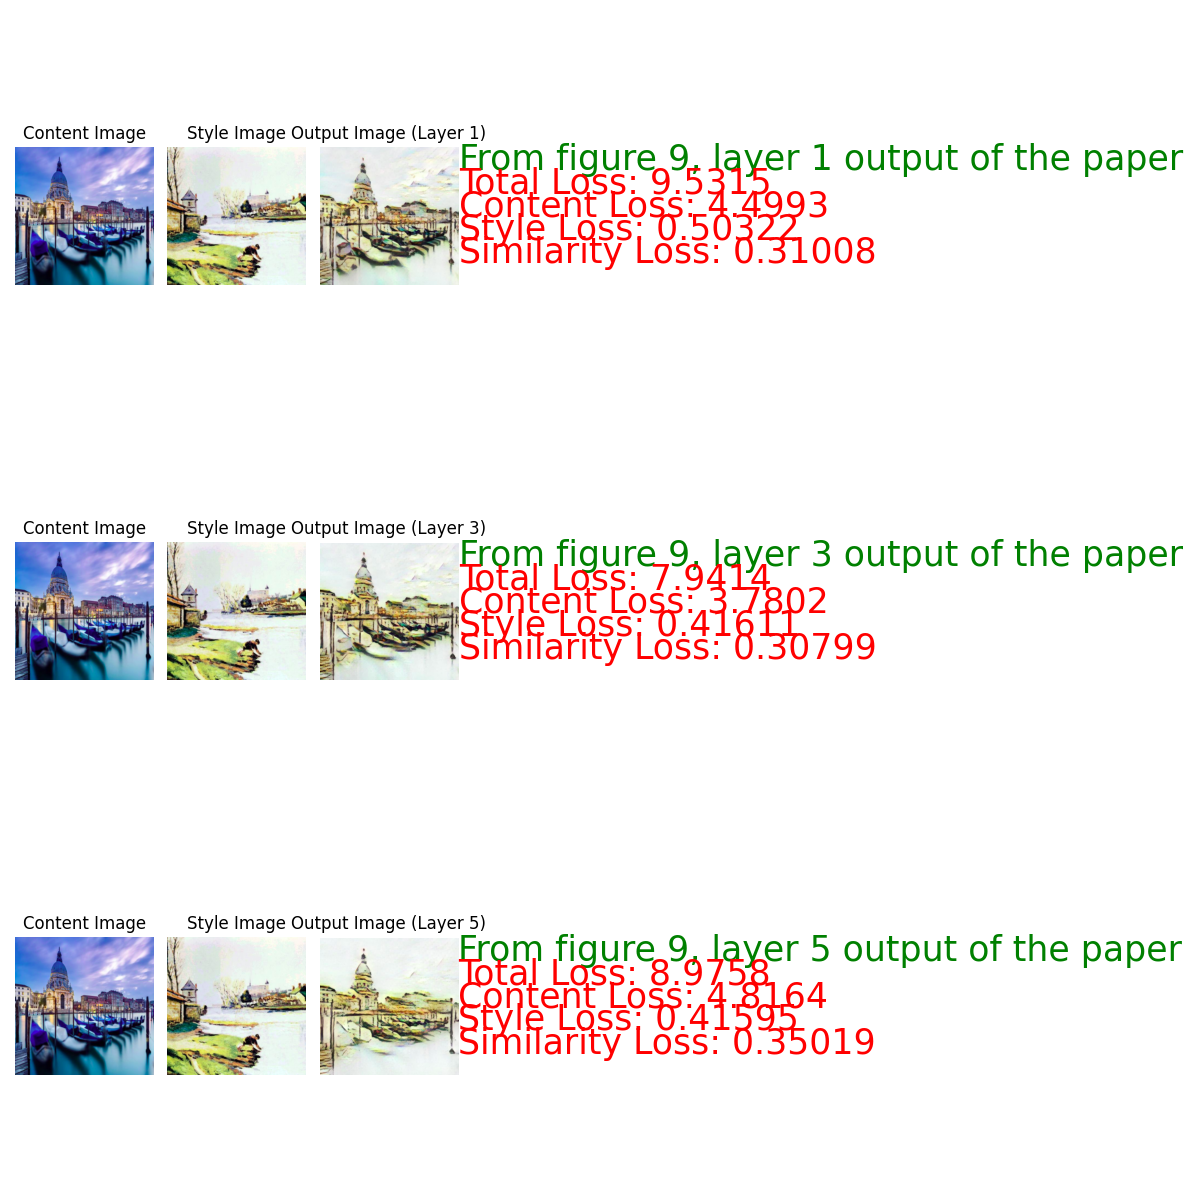
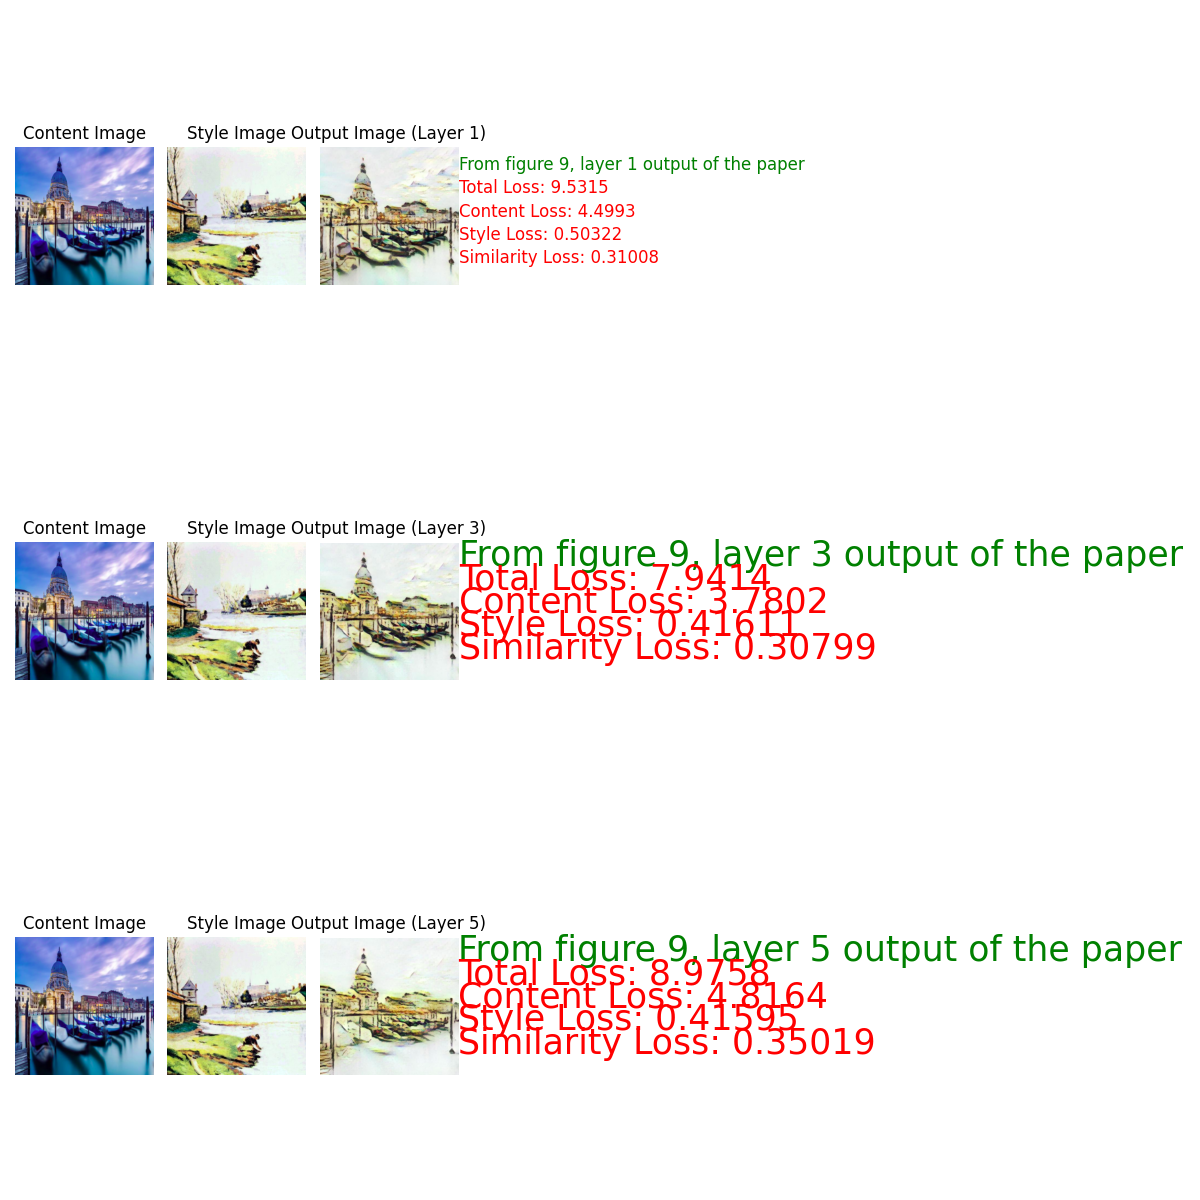
fixed similarity loss using lower triangle matrix

Changed region(s): [[0.37, 0.1233, 0.9867, 0.2158]]

diff --git a/codes/loss.py b/codes/loss.py
@@ -10,7 +10,7 @@ project_absolute_path_from_loss_py = os.path.abspath(os.path.join(os.path.dirnam
 sys.path.append(project_absolute_path_from_loss_py)
 
 # import the function to download the VGG19 model and create the cutted model
-from codes.utils import get_scaled_self_cosine_distance_map
+from codes.utils import get_scaled_self_cosine_distance_map_lower_triangle
 
 # define the custom VGG19 model using the original VGG19 model as input
 class VGG19_custom(nn.Module):
@@ -177,8 +177,6 @@ class custom_loss(nn.Module):
         # define content loss for each term
         content_loss_each_term = lambda A1, A2, instance_norm: torch.mean(torch.square(torch.sub(instance_norm(A1), instance_norm(A2))))
 
-        # get the shapes of the tensors
-        features_shape = VGG_features_content[0].shape
 
         # calculate content loss for relu 2_1, relu 3_1, relu 4_1, relu 5_1 (also scaled by W,H,C, as in the mentioned paper)
         content_loss =  content_loss_each_term(VGG_features_content[0], VGG_features_output[0], nn.InstanceNorm2d(128)) + \
@@ -209,7 +207,7 @@ class custom_loss(nn.Module):
                                                torch.mean(torch.square(torch.sub(A1.std([2,3]), A2.std([2,3]))))
 
 
-        # TODO: Check if the instance normalizing scale is correct
+
         # calculate style loss for relu 2_1, relu 3_1, relu 4_1, relu 5_1
         style_loss =    style_loss_each_term(VGG_features_style[0], VGG_features_output[0]) + \
                         style_loss_each_term(VGG_features_style[1], VGG_features_output[1]) + \
@@ -220,8 +218,7 @@ class custom_loss(nn.Module):
 
 
     
-
-    # TODO: Implement the other loss in the paper (similarity loss)
+    # Similarity Loss
     def get_similarity_loss(self, VGG_features_content, VGG_features_output):
         """
         calculates the similarity loss defined in the paper
@@ -232,32 +229,26 @@ class custom_loss(nn.Module):
         """
         
         # get the scaled self cosine distance map for the content and output images
-        scaled_self_cosine_distance_map_content_relu_4_1 = get_scaled_self_cosine_distance_map(VGG_features_content[0])
-        scaled_self_cosine_distance_map_output_relu_4_1 = get_scaled_self_cosine_distance_map(VGG_features_output[0])
-        scaled_self_cosine_distance_map_content_relu_5_1 = get_scaled_self_cosine_distance_map(VGG_features_content[1])
-        scaled_self_cosine_distance_map_output_relu_5_1 = get_scaled_self_cosine_distance_map(VGG_features_output[1])
+        scaled_self_cosine_distance_map_content_relu_4_1 = get_scaled_self_cosine_distance_map_lower_triangle(VGG_features_content[0])
+        scaled_self_cosine_distance_map_output_relu_4_1 = get_scaled_self_cosine_distance_map_lower_triangle(VGG_features_output[0])
+        scaled_self_cosine_distance_map_content_relu_5_1 = get_scaled_self_cosine_distance_map_lower_triangle(VGG_features_content[1])
+        scaled_self_cosine_distance_map_output_relu_5_1 = get_scaled_self_cosine_distance_map_lower_triangle(VGG_features_output[1])
 
 
-        # contsruct the mask to get the lower triangular part of the matrix
-        mask_relu_4_1 = torch.tril(torch.ones(1, scaled_self_cosine_distance_map_output_relu_4_1.shape[-1], scaled_self_cosine_distance_map_output_relu_4_1.shape[-1]), diagonal=-1)
-        mask_relu_5_1 = torch.tril(torch.ones(1, scaled_self_cosine_distance_map_output_relu_5_1.shape[-1], scaled_self_cosine_distance_map_output_relu_5_1.shape[-1]), diagonal=-1)
-
-        # get the absolute difference between the two matrices
-        abs_dif_self_cos_maps_relu_4_1 = torch.abs(torch.sub(scaled_self_cosine_distance_map_content_relu_4_1, scaled_self_cosine_distance_map_output_relu_4_1))
-        abs_dif_self_cos_maps_relu_5_1 = torch.abs(torch.sub(scaled_self_cosine_distance_map_content_relu_5_1, scaled_self_cosine_distance_map_output_relu_5_1))
-
-        # apply mask to the absolute difference to get the lower triangular part
-        lower_tri_abs_dif_self_cos_maps_relu_4_1 = abs_dif_self_cos_maps_relu_4_1 * mask_relu_4_1
-        lower_tri_abs_dif_self_cos_maps_relu_5_1 = abs_dif_self_cos_maps_relu_5_1 * mask_relu_5_1
+        # get the sum of absolute difference between the two matrices
+        abs_dif_self_cos_maps_relu_4_1 = torch.sum(torch.abs(torch.sub(scaled_self_cosine_distance_map_content_relu_4_1,
+                                                                       scaled_self_cosine_distance_map_output_relu_4_1)))
+        
+        abs_dif_self_cos_maps_relu_5_1 = torch.sum(torch.abs(torch.sub(scaled_self_cosine_distance_map_content_relu_5_1,
+                                                                       scaled_self_cosine_distance_map_output_relu_5_1)))
 
 
+        # divide with {n_{x}}^{2}, as well as batch sizes
+        similarity_loss_relu_4_1 = abs_dif_self_cos_maps_relu_4_1 / (scaled_self_cosine_distance_map_output_relu_4_1.shape[-1] * scaled_self_cosine_distance_map_output_relu_4_1.shape[0])
+        similarity_loss_relu_5_1 = abs_dif_self_cos_maps_relu_5_1 / (scaled_self_cosine_distance_map_output_relu_5_1.shape[-1] * scaled_self_cosine_distance_map_output_relu_5_1.shape[0])
 
-        # get the sum of the lower triangular parts and scale with the number of elements and batch size
-        similarity_loss_relu_4_1 = torch.sum(lower_tri_abs_dif_self_cos_maps_relu_4_1) / (scaled_self_cosine_distance_map_output_relu_4_1.shape[-1] * scaled_self_cosine_distance_map_output_relu_4_1.shape[0])
-        similarity_loss_relu_5_1 = torch.sum(lower_tri_abs_dif_self_cos_maps_relu_5_1) / (scaled_self_cosine_distance_map_output_relu_5_1.shape[-1] * scaled_self_cosine_distance_map_output_relu_5_1.shape[0])
 
-
-        # calculate the similarity loss, dividing with {n_{x}}^{2}, as well as batch sizes
+        # calculate the similarity loss
         similarity_loss = similarity_loss_relu_4_1 + similarity_loss_relu_5_1
 
 
@@ -358,11 +349,11 @@ if __name__ == "__main__":
     ax[0, 2].axis("off")
 
     # to the right of the output image, add the total loss, content loss, and style loss, adding the title
-    ax[0, 2].text(300, 50, f"From figure 9, layer 1 output of the paper", fontsize=25, color="green")
-    ax[0, 2].text(300, 100, f"Total Loss: {total_loss_1_figure_9.item():.5}", fontsize=25, color="red")
-    ax[0, 2].text(300, 150, f"Content Loss: {content_loss_1_figure_9.item():.5}", fontsize=25, color="red")
-    ax[0, 2].text(300, 200, f"Style Loss: {style_loss_1_figure_9.item():.5}", fontsize=25, color="red")
-    ax[0, 2].text(300, 250, f"Similarity Loss: {similarity_loss_1_figure_9.item():.5}", fontsize=25, color="red")
+    ax[0, 2].text(300, 50, f"From figure 9, layer 1 output of the paper", fontsize=12, color="green")
+    ax[0, 2].text(300, 100, f"Total Loss: {total_loss_1_figure_9.item():.5}", fontsize=12, color="red")
+    ax[0, 2].text(300, 150, f"Content Loss: {content_loss_1_figure_9.item():.5}", fontsize=12, color="red")
+    ax[0, 2].text(300, 200, f"Style Loss: {style_loss_1_figure_9.item():.5}", fontsize=12, color="red")
+    ax[0, 2].text(300, 250, f"Similarity Loss: {similarity_loss_1_figure_9.item():.5}", fontsize=12, color="red")
 
 
 
@@ -569,4 +560,12 @@ if __name__ == "__main__":
 
         # close the figure
         plt.close(fig)
+
+        # print the losses
+        print(f"Figure-4 Column-{column_index} losses:")
+        print(f"AdaAttN: {losses_AdaAttN}")
+        print(f"Master ZS Layer 1: {losses_Master_ZS_layer1}")
+        print(f"Master ZS Layer 3: {losses_Master_ZS_layer3}")
+        print(f"Master FS: {losses_Master_FS}")
+        print("\n\n\n")
 

diff --git a/codes/utils.py b/codes/utils.py
@@ -69,9 +69,9 @@ def download_swin_and_create_cutted_model(absolute_project_path,
                 save(swin_B_first_2_stages, os.path.join(absolute_project_path, model_save_absolute_path))
 
 
-def get_scaled_self_cosine_distance_map(A, eps=1e-6):
+def get_scaled_self_cosine_distance_map_lower_triangle(A, eps=1e-6):
         """
-        This function takes a tensor and calculates the spatial-wise self cosine similarity, scaling the values columns with column sums.
+        This function takes a tensor and calculates the spatial-wise self cosine similarity, scaling the values columns with column sums, leabing the lower triangle of the matrix.
         It is used to calculate the similarity loss in the paper.
 
         input:
@@ -96,8 +96,8 @@ def get_scaled_self_cosine_distance_map(A, eps=1e-6):
         # divide the columns with the column sums (it will be used to calculate   D^x_{c,ij} / SUM FOR ALL K -> [D^x_{c,kj}]   and   D^x_{cs,ij} / SUM FOR ALL K -> [D^x_{cs,kj}]   in the paper containing all i and j values)
         self_cos_sim_scaled = self_cos_sim / self_cos_sim_sum.unsqueeze(1)
 
-        # return the scaled self cosine similarity
-        return self_cos_sim_scaled
+        # return the scaled self cosine similarity, leaving the lower triangle of the matrix
+        return self_cos_sim_scaled.tril(diagonal=-1)
 
 
 if(__name__ == "__main__"):

diff --git a/README.md b/README.md
@@ -37,3 +37,4 @@ conda install pytorch==1.13.1 torchvision==0.14.1 torchaudio==0.13.1 pytorch-cud
 * Again, the paper does not explicitly state if the loss functions are scaled by the Batch Size, Channel Size, Image Height or Image Width. We take the mean of the squared distances, which scales the loss by the batch size and channel size (also by the image height and width in the content loss), as it were more plausible and the loss values aligned better with the paper this way.
 * We don't know if we should normalize the dataset images with the mean and std of the dataset. So, we did not do it.
 * In the paper, for the calculation of the similarity loss, author did not explicitly add an epsilon value on the denominator. We added epsilon to avoid division by zero. 
+* In similarity loss, paper says to sum over all i an j values, but this is not plausible since when i=j, cosine similarity is always 1, and cosine similarity is symmetric (D_{ij} = D_{ji}). So, we decided to use lower triangular part of the matrix, which also yield similar results with the paper.
